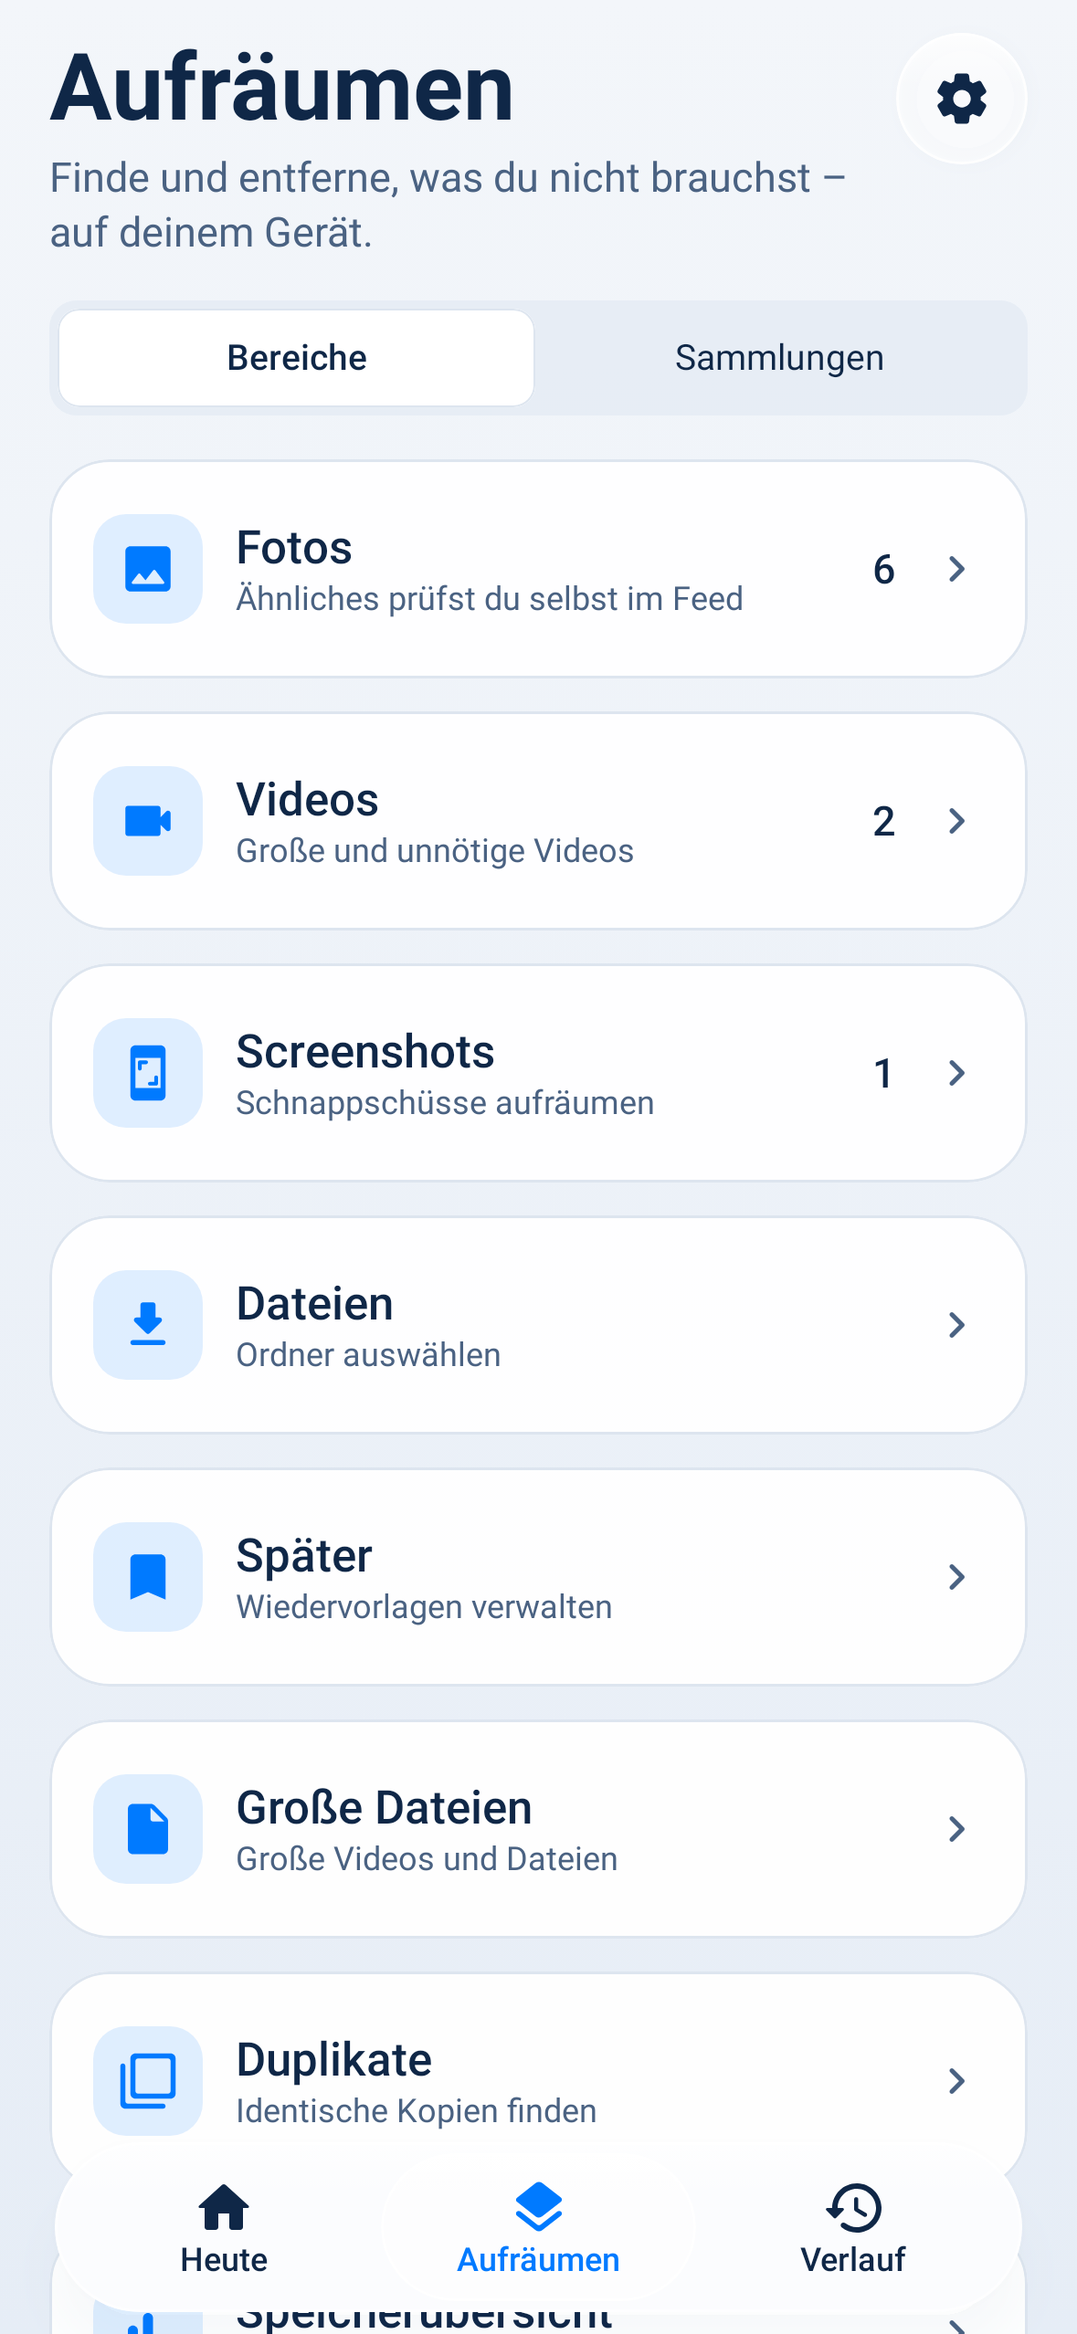
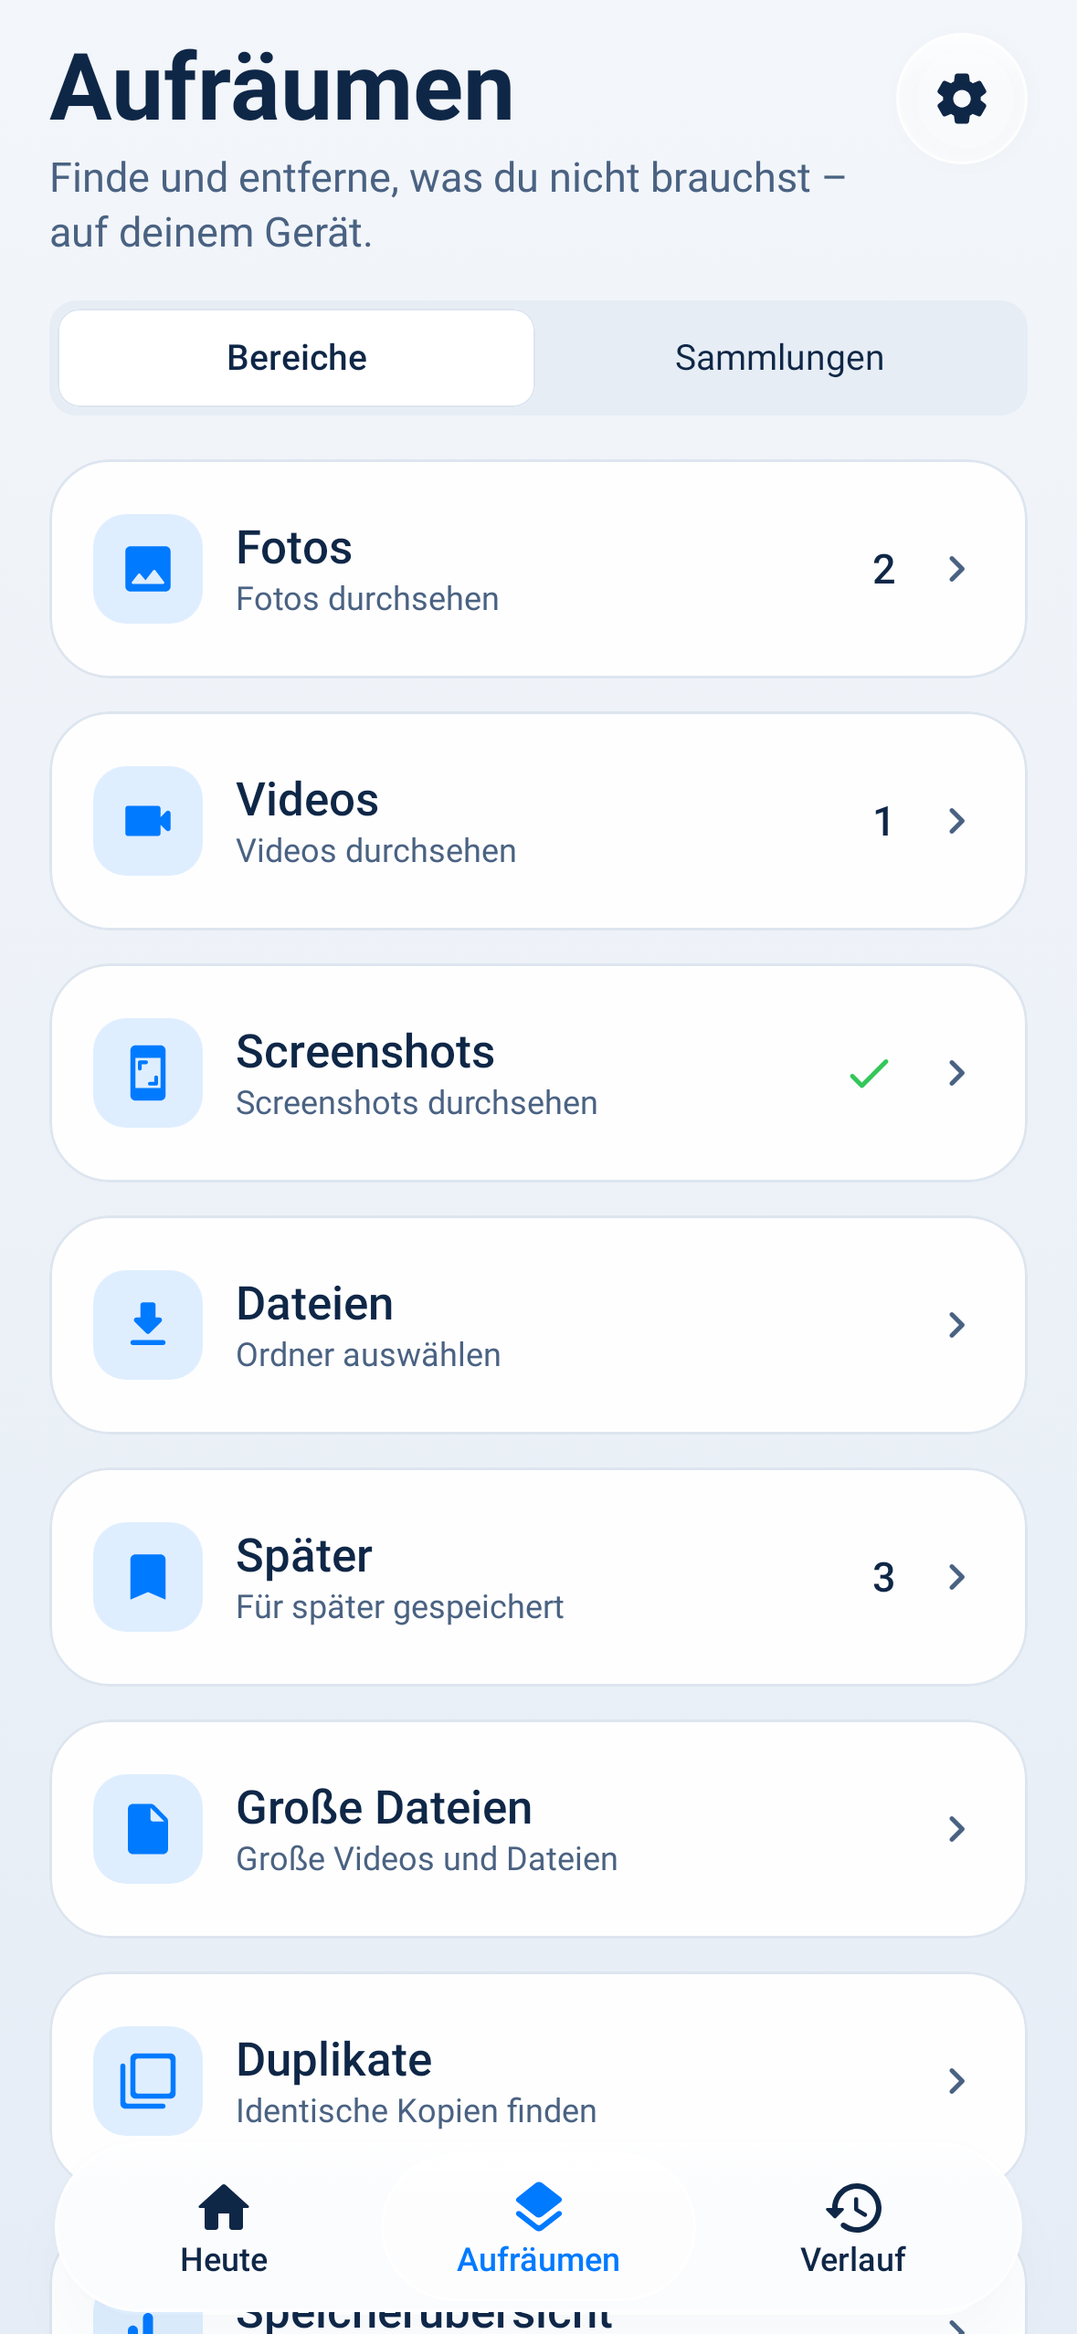
aufräumen: Zähler = noch zu prüfen (✓ bei 0), einfache Untertitel, „Später“ statt Wiedervorlage
- AppModel.pendingQueue: eine Quelle für Heute und Aufräumen (gleiche Regel wie der Feed)
- SourceRow: optionales Symbol im Wert-Slot (gleiche Geometrie)
- sichtbare Texte ohne „Wiedervorlage/zurückgestellt/Zurückstellung“
- HubPendingTest (6), Screenshots k01–k05

Claude-Session: https://claude.ai/code/session_01CFMEemyUt7rzN1gDw1coEf

diff --git a/app/src/test/kotlin/app/photomaid/HubPendingTest.kt b/app/src/test/kotlin/app/photomaid/HubPendingTest.kt
@@ -1,0 +1,120 @@
+package app.photomaid
+
+import androidx.compose.ui.test.hasContentDescription
+import androidx.compose.ui.test.hasAnyAncestor
+import androidx.compose.ui.test.hasTestTag
+import androidx.compose.ui.test.hasText
+import androidx.compose.ui.test.junit4.createComposeRule
+import androidx.test.core.app.ApplicationProvider
+import androidx.test.ext.junit.runners.AndroidJUnit4
+import app.photomaid.core.decisions.DecisionAction
+import app.photomaid.core.decisions.DecisionCommand
+import app.photomaid.core.model.ItemReference
+import app.photomaid.core.model.MediaKind
+import app.photomaid.core.model.ReviewSessionID
+import app.photomaid.feature.cleanup.CleanUpHubScreen
+import app.photomaid.feature.today.TodayScreen
+import kotlinx.coroutines.Dispatchers
+import kotlinx.coroutines.runBlocking
+import org.junit.Assert.assertTrue
+import org.junit.Rule
+import org.junit.Test
+import org.junit.runner.RunWith
+import org.robolectric.annotation.GraphicsMode
+
+/**
+ * Tab „Aufräumen“: Zähler = noch zu prüfen (nicht Gesamtbestand), gleiche Quelle wie „Heute“.
+ * Fake: 7 Fotos (davon 1 Screenshot) + 3 Videos.
+ */
+@RunWith(AndroidJUnit4::class)
+@GraphicsMode(GraphicsMode.Mode.NATIVE)
+class HubPendingTest {
+    @get:Rule val rule = createComposeRule()
+    private val ctx = ApplicationProvider.getApplicationContext<android.content.Context>()
+    private lateinit var lib: FakeMediaLibrary
+
+    private suspend fun AppModel.act(ref: ItemReference, action: DecisionAction) =
+        ledger.apply(DecisionCommand(item = ref, expectedRevision = ledger.record(ref).revision, action = action))
+
+    private fun app(decide: suspend AppModel.(List<ItemReference>) -> Unit = {}) =
+        makeTestApp(ctx, media = { FakeMediaLibrary(it, count = 7, videos = 3).also { l -> lib = l } }) { a -> a.decide(lib.all.map { ItemReference.photo(it.id) }) }
+
+    private fun refsOf(kind: (MediaKind) -> Boolean) = lib.all.filter { kind(it.kind) }.map { ItemReference.photo(it.id) }
+    private val screen = androidx.compose.runtime.mutableStateOf("hub")
+    private fun host(app: AppModel) = rule.setContent {
+        TestHost(app) { if (screen.value == "hub") CleanUpHubScreen(RecordingNav()) else TodayScreen(RecordingNav()) }
+    }
+    private fun inRow(tag: String) = hasTestTag(tag) or hasAnyAncestor(hasTestTag(tag))
+    private fun waitRow(tag: String, desc: String) = rule.waitUntil(10_000) {
+        rule.onAllNodes(inRow(tag) and (hasContentDescription(desc, substring = true) or hasText(desc, substring = true))).fetchSemanticsNodes().isNotEmpty()
+    }
+    /** Alle Texte/Beschreibungen der Karte (für „zeigt NICHT …“). */
+    private fun rowText(tag: String) = rule.onAllNodes(inRow(tag)).fetchSemanticsNodes().joinToString("|") { it.config.toString() }
+
+    /** TEST 1/4/5/6: alles geprüft → Haken statt Gesamtzahl, Heute „Alles geprüft“. */
+    @Test fun allReviewedShowsCheckNotTotals() {
+        val app = app { refs -> refs.forEach { act(it, DecisionAction.Keep) } }
+        host(app)
+        for (t in listOf("hub.photos", "hub.videos", "hub.screenshots")) waitRow(t, "Nichts zu prüfen")
+        assertTrue(!rowText("hub.photos").contains("Text = '[7]'") && !rowText("hub.videos").contains("Text = '[3]'") && !rowText("hub.screenshots").contains("Text = '[1]'"))
+        screen.value = "today"
+        rule.waitUntil(10_000) { rule.onAllNodes(hasText("Alles geprüft")).fetchSemanticsNodes().isNotEmpty() }
+    }
+
+    /** TEST 2/3: offene Elemente je Bereich. */
+    @Test fun pendingCountsPerArea() {
+        val app = app { _ ->
+            refsOf { it != MediaKind.VIDEO }.take(6).forEach { act(it, DecisionAction.Keep) } // 1 Foto offen (kein Screenshot)
+            refsOf { it == MediaKind.VIDEO }.take(1).forEach { act(it, DecisionAction.Keep) } // 2 Videos offen
+            refsOf { it == MediaKind.SCREENSHOT }.forEach { act(it, DecisionAction.Keep) }
+        }
+        rule.setContent { TestHost(app) { CleanUpHubScreen(RecordingNav()) } }
+        waitRow("hub.photos", "1 zu prüfen")
+        waitRow("hub.videos", "2 zu prüfen")
+        waitRow("hub.screenshots", "Nichts zu prüfen")
+    }
+
+    /** TEST 7: neues Medium → Foto-Zähler steigt, Heute verlässt „Alles geprüft“. */
+    @Test fun newMediumReopensBothScreens() {
+        val app = app { refs -> refs.forEach { act(it, DecisionAction.Keep) } }
+        host(app)
+        waitRow("hub.photos", "Nichts zu prüfen")
+        lib.addNew(0)
+        waitRow("hub.photos", "1 zu prüfen")
+        screen.value = "today"
+        rule.waitUntil(10_000) { rule.onAllNodes(hasText("1 Medium wartet auf dich")).fetchSemanticsNodes().isNotEmpty() }
+    }
+
+    /** TEST 8/9: Behalten, Papierkorb, Später senken den Zähler; Undo stellt ihn wieder her. */
+    @Test fun decisionsAndUndoUpdatePending() {
+        val app = app()
+        rule.setContent { TestHost(app) { CleanUpHubScreen(RecordingNav()) } }
+        waitRow("hub.videos", "3 zu prüfen")
+        val v = refsOf { it == MediaKind.VIDEO }
+        runBlocking(Dispatchers.IO) { app.act(v[0], DecisionAction.Keep) }
+        waitRow("hub.videos", "2 zu prüfen")
+        runBlocking(Dispatchers.IO) { app.act(v[1], DecisionAction.MarkForCleanup) }
+        waitRow("hub.videos", "1 zu prüfen")
+        // Wie Wisch nach rechts: Später + Standardtermin (ohne Termin käme es beim nächsten Aufräumen wieder).
+        runBlocking(Dispatchers.IO) { app.act(v[2], DecisionAction.Later(ReviewSessionID())); app.act(v[2], DecisionAction.Schedule(app.today.addingDays(2))) }
+        waitRow("hub.videos", "Nichts zu prüfen")
+        runBlocking(Dispatchers.IO) { app.undo() }
+        waitRow("hub.videos", "1 zu prüfen")
+    }
+
+    /** TEST 10: Später zeigt die gespeicherten Elemente und „Für später gespeichert“. */
+    @Test fun laterCardShowsSavedCount() {
+        val app = app { refs -> refs.take(6).forEach { act(it, DecisionAction.Later(ReviewSessionID())) } }
+        rule.setContent { TestHost(app) { CleanUpHubScreen(RecordingNav()) } }
+        waitRow("hub.later", "6 Elemente")
+        assertTrue(rowText("hub.later").contains("Für später gespeichert"))
+    }
+
+    /** TEST 11: keine Büro-/Entwicklerbegriffe in sichtbaren deutschen Texten. */
+    @Test fun visibleCopyHasNoTechnicalTerms() {
+        val xml = java.io.File("src/main/res/values/strings.xml").readText()
+        val visible = Regex(">([^<]+)<").findAll(xml).map { it.groupValues[1] }.joinToString("\n")
+        for (w in listOf("Wiedervorlage", "zurückgestellt", "Zurückstellung", "Snooze", "Review Queue", "Ähnliches prüfst", "unnötige Videos"))
+            assertTrue("„$w“ ist noch sichtbar", !visible.contains(w, ignoreCase = true))
+    }
+}

diff --git a/app/src/main/kotlin/app/photomaid/feature/cleanup/CleanUpHubScreen.kt b/app/src/main/kotlin/app/photomaid/feature/cleanup/CleanUpHubScreen.kt
@@ -49,6 +49,7 @@ import app.photomaid.design.SurfaceCard
 import app.photomaid.media.MediaCategory
 import app.photomaid.feature.collections.CollectionsContent
 import androidx.compose.material.icons.rounded.Bookmark
+import androidx.compose.material.icons.rounded.Check
 import app.photomaid.navigation.LocalApp
 import app.photomaid.navigation.Nav
 import app.photomaid.navigation.Routes
@@ -69,7 +70,12 @@ fun CleanUpHubScreen(nav: Nav) {
     val sources by app.sources.sources.collectAsState()
     var tab by rememberSaveable { mutableStateOf(HubTab.AREAS) }
     var counts by remember { mutableStateOf<Map<MediaCategory, Int>>(emptyMap()) }
-    LaunchedEffect(token, access) { counts = withContext(Dispatchers.IO) { MediaCategory.entries.associateWith { app.photos.count(it) } } }
+    // Noch zu prüfen (nicht Gesamtbestand): dieselbe Quelle wie „Heute“, neu bei Mediathek- und Entscheidungsänderung.
+    LaunchedEffect(token, access, read.events.size, read.basket.size, read.laterRecords.size) {
+        counts = withContext(Dispatchers.IO) {
+            if (!access.canRead) emptyMap() else MediaCategory.entries.associateWith { app.pendingQueue(app.photos.assets(it)).size }
+        }
+    }
 
     AppBackground {
         Column(Modifier.fillMaxSize().wrapContentWidth().readableWidth().fillMaxWidth().verticalScroll(rememberScrollState()).statusBarsPadding().padding(horizontal = AppSpacing.pageMargin),
@@ -87,8 +93,12 @@ fun CleanUpHubScreen(nav: Nav) {
                     val enabled = access.canRead
                     SurfaceCard(Modifier.alpha(if (enabled) 1f else 0.45f).testTag("hub.${cat.name.lowercase()}"),
                         onClick = if (enabled) ({ nav.openFeed(FeedRequest(FeedRequest.Source.Category(cat))) }) else null) {
-                        SourceRow(icon, c.accent, stringResource(title), subtitle = stringResource(sub), value = counts[cat]?.toString(),
-                            valueDescription = counts[cat]?.let { pluralStringResource(R.plurals.items_count, it, it) })
+                        val pending = counts[cat]
+                        // 0 offen → dezenter Haken (heißt nur: gerade nichts zu prüfen; neue Medien zeigen wieder eine Zahl).
+                        SourceRow(icon, c.accent, stringResource(title), subtitle = stringResource(sub),
+                            value = pending?.takeIf { it > 0 }?.toString(),
+                            valueIcon = if (pending == 0) Icons.Rounded.Check else null,
+                            valueDescription = pending?.let { if (it == 0) stringResource(R.string.hub_nothing_pending) else pluralStringResource(R.plurals.hub_pending, it, it) })
                     }
                 }
                 @Composable
@@ -100,7 +110,12 @@ fun CleanUpHubScreen(nav: Nav) {
                 media(MediaCategory.SCREENSHOTS, Icons.Rounded.Screenshot, R.string.cat_screenshots, R.string.hub_screens_sub)
                 link("files", Icons.Rounded.Download, stringResource(if (app.sources.downloadsSource == null) R.string.files else R.string.downloads),
                     stringResource(if (sources.isEmpty()) R.string.choose_folder else R.string.hub_files_sub), Routes.FILES)
-                link("later", Icons.Rounded.Bookmark, stringResource(R.string.later), stringResource(R.string.later_manage), Routes.LATER)
+                // Später: tatsächlich für später gespeicherte Elemente (nicht die Prüf-Logik der Medienbereiche).
+                SurfaceCard(Modifier.testTag("hub.later"), onClick = { nav.push(Routes.LATER) }) {
+                    SourceRow(Icons.Rounded.Bookmark, c.accent, stringResource(R.string.later), subtitle = stringResource(R.string.later_manage),
+                        value = read.laterRecords.size.toString(),
+                        valueDescription = pluralStringResource(R.plurals.items_count, read.laterRecords.size, read.laterRecords.size))
+                }
                 link("large", Icons.Rounded.InsertDriveFile, stringResource(R.string.large_files), stringResource(R.string.hub_large_sub), Routes.LARGE)
                 link("duplicates", Icons.Rounded.FilterNone, stringResource(R.string.duplicates), stringResource(R.string.hub_dup_sub), Routes.DUPLICATES)
                 link("storage", Icons.Rounded.BarChart, stringResource(R.string.storage_overview), stringResource(R.string.hub_storage_sub), Routes.STORAGE)

diff --git a/app/src/test/kotlin/app/photomaid/ScreenshotTest.kt b/app/src/test/kotlin/app/photomaid/ScreenshotTest.kt
@@ -247,4 +247,21 @@ class ScreenshotTest {
     @Test fun h01_status_cards_100() = statusCards("h01_status_cards_100", 1.0f)
     @Test fun h02_status_cards_150() = statusCards("h02_status_cards_150", 1.5f)
     @Test @Config(qualifiers = "w320dp-h900dp-xhdpi") fun h03_status_cards_200_small() = statusCards("h03_status_cards_200_small", 2.0f)
+
+    // Aufräumen-Hub: A = alles geprüft (6 für später), B = offene Elemente.
+    private fun hubDoneApp() = makeTestApp(ctx, media = { FakeMediaLibrary(it, visual = true).also { l -> lib = l } }) { a ->
+        val sid = ReviewSessionID()
+        lib.all.forEachIndexed { i, m ->
+            val ref = ItemReference.photo(m.id)
+            if (i < 6) {
+                a.ledger.apply(DecisionCommand(item = ref, expectedRevision = a.ledger.record(ref).revision, action = DecisionAction.Later(sid)))
+                a.ledger.apply(DecisionCommand(item = ref, expectedRevision = a.ledger.record(ref).revision, action = DecisionAction.Schedule(a.today.addingDays(2))))
+            } else a.ledger.apply(DecisionCommand(item = ref, expectedRevision = a.ledger.record(ref).revision, action = DecisionAction.Keep))
+        }
+    }
+    @Test fun k01_hub_all_done() = hubDoneApp().let { shot("k01_hub_all_done", it) { WithTabBar(AppTab.CLEANUP) { CleanUpHubScreen(nav) } } }
+    @Test fun k02_hub_pending() = emptyApp().let { shot("k02_hub_pending", it) { WithTabBar(AppTab.CLEANUP) { CleanUpHubScreen(nav) } } }
+    @Test @Config(qualifiers = "w320dp-h900dp-xhdpi") fun k03_hub_small_100() = hubDoneApp().let { shot("k03_hub_small_100", it) { CleanUpHubScreen(nav) } }
+    @Test @Config(qualifiers = "w320dp-h1200dp-xhdpi") fun k04_hub_small_150() = emptyApp().let { RuntimeEnvironment.setFontScale(1.5f); shot("k04_hub_small_150", it) { CleanUpHubScreen(nav) } }
+    @Test @Config(qualifiers = "w320dp-h1600dp-xhdpi") fun k05_hub_small_200() = hubDoneApp().let { RuntimeEnvironment.setFontScale(2.0f); shot("k05_hub_small_200", it) { CleanUpHubScreen(nav) } }
 }

diff --git a/app/src/main/kotlin/app/photomaid/design/Components.kt b/app/src/main/kotlin/app/photomaid/design/Components.kt
@@ -323,11 +323,13 @@ fun SourceRow(
     showChevron: Boolean = true,
     /** Vorlesetext für einen knappen Wert (z. B. „6“ → „6 Elemente“). */
     valueDescription: String? = null,
+    /** Symbol statt Zahl an derselben Stelle (z. B. ✓ = nichts zu prüfen). */
+    valueIcon: ImageVector? = null,
 ) {
     val c = PM.colors
     // Große Schrift (≥ 130 %): Werte unter den Titel statt daneben (iOS: Accessibility-Größen stapeln).
     val stacked = LocalDensity.current.fontScale >= 1.3f
-    val trailing = listOfNotNull(value, detail)
+    val trailing = listOfNotNull(value, detail, valueDescription?.takeIf { valueIcon != null })
     Row(
         modifier.fillMaxWidth().heightIn(min = AppSpacing.minTouch).semantics(mergeDescendants = true) {},
         verticalAlignment = Alignment.CenterVertically,
@@ -346,6 +348,8 @@ fun SourceRow(
         // Detail begrenzt, damit der Titel auf schmalen Geräten nicht zerquetscht wird.
         if (!stacked && trailing.isNotEmpty()) {
             Column(Modifier.widthIn(max = 132.dp), horizontalAlignment = Alignment.End, verticalArrangement = Arrangement.spacedBy(2.dp)) {
+                if (valueIcon != null) Icon(valueIcon, null, tint = c.success, modifier = Modifier.size(20.dp)
+                    .then(if (valueDescription != null) Modifier.semantics { contentDescription = valueDescription } else Modifier))
                 if (value != null) Text(value, style = AppTypography.subheadline.copy(fontWeight = FontWeight.SemiBold), color = c.textPrimary,
                     textAlign = TextAlign.End, maxLines = 1,
                     modifier = if (valueDescription != null) Modifier.semantics { contentDescription = valueDescription } else Modifier)

diff --git a/app/src/main/kotlin/app/photomaid/feature/today/TodayScreen.kt b/app/src/main/kotlin/app/photomaid/feature/today/TodayScreen.kt
@@ -64,8 +64,6 @@ import androidx.compose.ui.text.style.TextOverflow
 import androidx.compose.ui.unit.dp
 import app.photomaid.FeedRequest
 import app.photomaid.R
-import app.photomaid.core.later.ReviewQueues
-import app.photomaid.core.model.ReviewSessionID
 import app.photomaid.core.storage.DeviceCapacity
 import app.photomaid.design.AppBackground
 import app.photomaid.design.AppIconSize
@@ -112,10 +110,7 @@ fun TodayScreen(nav: Nav) {
     LaunchedEffect(token, access, read.basket.size, read.laterRecords.size, read.events.size) {
         withContext(Dispatchers.IO) {
             device = DeviceStorage.read(ctx)
-            pending = if (!access.canRead) null else {
-                val refs = app.photos.reviewableMedia().map { it.reference }
-                ReviewQueues.normalQueue(refs, app.ledger.records(refs), ReviewSessionID(), app.today).map { it.localIdentifier }
-            }
+            pending = if (!access.canRead) null else app.pendingQueue(app.photos.reviewableMedia()).map { it.localIdentifier }
         }
     }
 

diff --git a/app/src/test/kotlin/app/photomaid/TestSupport.kt b/app/src/test/kotlin/app/photomaid/TestSupport.kt
@@ -96,6 +96,14 @@ class FakeMediaLibrary(
 
     private fun visible() = all.filter { it.id !in removed }
 
+    /** Simuliert ein extern neu aufgenommenes Medium (Kopie von Eintrag [i] mit neuer ID). */
+    fun addNew(i: Int = 0): MediaAsset {
+        val a = base[i].copy(id = base[i].id + "?new=" + base.size, creationDate = java.time.Instant.parse("2026-09-29T12:00:00Z"))
+        base = base + a
+        changeToken.value += 1
+        return a
+    }
+
     override fun refreshAccess() {}
     override fun bumpChangeToken() { changeToken.value += 1 }
     override fun count(category: MediaCategory) = if (access.value.canRead) assets(category).size else 0

diff --git a/app/src/main/kotlin/app/photomaid/AppModel.kt b/app/src/main/kotlin/app/photomaid/AppModel.kt
@@ -164,6 +164,15 @@ class AppModel(
         )
     }
 
+    /**
+     * Noch zu prüfende Medien – dieselbe Regel wie der Feed ([ReviewQueues.normalQueue]).
+     * Einzige Quelle für „Heute“ (Zahl, „Alles geprüft“) und die Zähler im Tab „Aufräumen“.
+     */
+    suspend fun pendingQueue(assets: List<app.photomaid.media.MediaAsset>): List<ItemReference> {
+        val refs = assets.map { it.reference }
+        return ReviewQueues.normalQueue(refs, ledger.records(refs), ReviewSessionID(), today)
+    }
+
     val dueCount: Int
         get() = _read.value.laterRecords.count { ReviewQueues.laterStatus(it, today) is LaterStatus.Due }
 

diff --git a/app/src/test/kotlin/app/photomaid/PremiumPassTest.kt b/app/src/test/kotlin/app/photomaid/PremiumPassTest.kt
@@ -120,7 +120,7 @@ class PremiumPassTest {
         val app = makeTestApp(ctx)
         rule.setContent { TestHost(app) { LaterScreen(RecordingNav()) } }
         waitText("Nichts für später")
-        rule.onNodeWithText("Medien, die du zurückstellst, erscheinen hier wieder.").assertExists()
+        rule.onNodeWithText("Medien, die du für später speicherst, erscheinen hier.").assertExists()
     }
 
     @Test fun historyEmptyState() {
